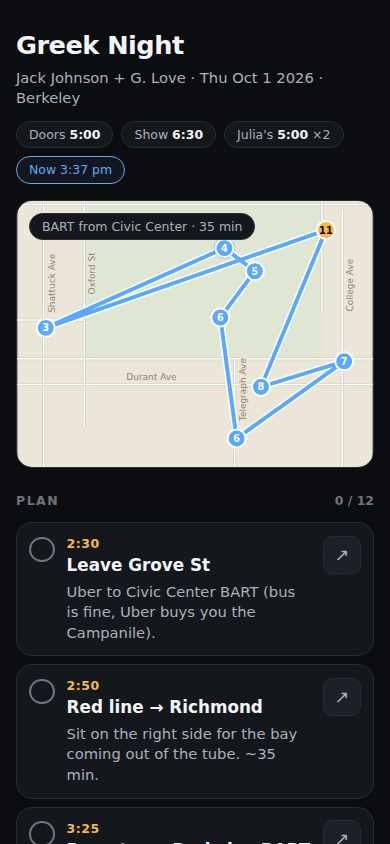
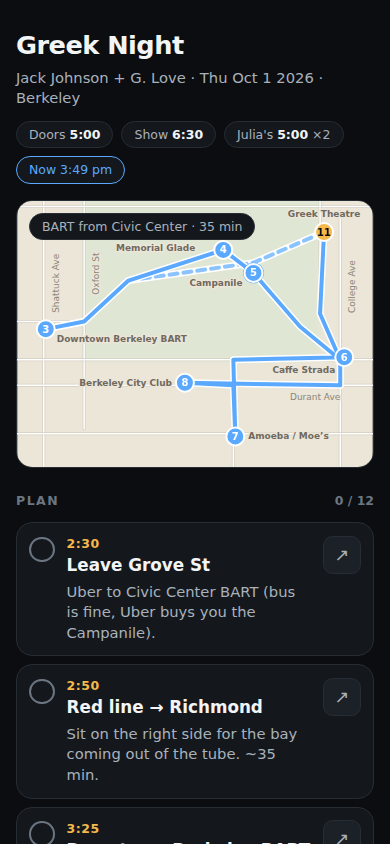
greek-night: street-following loop, plan reorder
Claude-Session: https://claude.ai/code/session_01SYEqCQ4izqiJdBAjLeUwFf

Changed region(s): [[0.0923, 0.2156, 0.9231, 0.5545], [0.1846, 0.1848, 0.2154, 0.2156]]

diff --git a/greek-night.html b/greek-night.html
@@ -59,6 +59,8 @@
   .gn-st-l{font-size:9px;fill:#8b8578;stroke:#ece6d8;stroke-width:3;paint-order:stroke;stroke-linejoin:round;font-weight:500}
   .gn-route-case{fill:none;stroke:#fff;stroke-width:7;stroke-linejoin:round;stroke-linecap:round}
   .gn-route{fill:none;stroke:var(--now);stroke-width:4;stroke-linejoin:round;stroke-linecap:round}
+  .gn-route.ret{stroke-dasharray:8 6;opacity:.7}
+  .pin-l{font-size:9px;fill:#6f6a5f;stroke:#ece6d8;stroke-width:3;paint-order:stroke;stroke-linejoin:round;font-weight:600}
   .pin{cursor:pointer;transition:opacity .2s}
   .pin.done{opacity:.45}
   .pin-c{fill:var(--now);stroke:#fff;stroke-width:2}
@@ -124,9 +126,9 @@
     {t:'3:25', h:15, m:25, title:'Downtown Berkeley BART', note:'Exit to Shattuck, east on Center St two blocks to campus.', map:M('Downtown Berkeley BART Station')},
     {t:'3:30', h:15, m:30, title:'Doe Library → Memorial Glade', note:'The big lawn with the Campanile view.', map:M('Memorial Glade UC Berkeley')},
     {t:'3:40', h:15, m:40, title:'Campanile', note:'Last elevator up 3:45, $5. Miss it → lawn at the base for 10 min.', map:M('Sather Tower UC Berkeley')},
-    {t:'4:00', h:16, m:0, title:'Sather Gate → Sproul → Telegraph', note:'Amoeba (Haste & Telegraph) and Moe’s Books next door. 20 min.', map:M('Amoeba Music 2455 Telegraph Ave Berkeley')},
-    {t:'4:25', h:16, m:25, title:'Caffe Strada', note:'College & Bancroft, the patio under the trees. Tea or espresso.', map:M('Caffe Strada 2300 College Ave Berkeley')},
-    {t:'4:55', h:16, m:55, title:'Berkeley City Club', note:'Julia Morgan, 1929. Courtyard and the indoor pool through the back. Julia’s is 2nd floor.', map:M('Berkeley City Club 2315 Durant Ave Berkeley')},
+    {t:'4:00', h:16, m:0, title:'Caffe Strada', note:'Exit campus at the SE corner (Bancroft & College). The patio under the trees. Tea or espresso.', map:M('Caffe Strada 2300 College Ave Berkeley')},
+    {t:'4:25', h:16, m:25, title:'Telegraph Ave', note:'West on Bancroft, south on Telegraph. Amoeba (Haste & Telegraph) and Moe’s next door. 20 min.', map:M('Amoeba Music 2455 Telegraph Ave Berkeley')},
+    {t:'4:50', h:16, m:50, title:'Berkeley City Club', note:'North to Durant, two blocks west. Julia Morgan, 1929 — courtyard and indoor pool through the back. Julia’s is 2nd floor.', map:M('Berkeley City Club 2315 Durant Ave Berkeley')},
     {t:'5:00', h:17, m:0, title:'Dinner — Julia’s', note:'Table for 2. Zero-proof cocktails. Niçoise w/ trout, ratatouille, beet salad. Ask for the check by 6:10.', map:M('Julia’s Restaurant 2315 Durant Ave Berkeley')},
     {t:'6:15', h:18, m:15, title:'Walk to the Greek', note:'Durant east → College Ave north → Gayley Rd. 15 min, uphill at the end.', map:M('Greek Theatre 2001 Gayley Rd Berkeley')},
     {t:'6:35', h:18, m:35, title:'In the gate', note:'G. Love on. Jack ~8:00. Done ~10:15. Water refill on the middle concourse.', map:M('Greek Theatre 2001 Gayley Rd Berkeley')},
@@ -142,7 +144,7 @@
     'Phone charged · Clipper in Wallet · tickets in Wallet'
   ];
 
-  var KEY = 'greek-night-v1';
+  var KEY = 'greek-night-v2';
   var state = {};
   try { state = JSON.parse(localStorage.getItem(KEY) || '{}') || {}; } catch (e) { state = {}; }
   function save(){ try { localStorage.setItem(KEY, JSON.stringify(state)); } catch (e) {} }
@@ -206,25 +208,32 @@
   }
 
   /* ---------- map hero: offline SVG, projected from the data ---------- */
-  var STOPS = [
-    {n:'Downtown Berkeley BART', lat:37.8699, lng:-122.2681, steps:[3, 12]},
-    {n:'Memorial Glade', lat:37.8730, lng:-122.2593, steps:[4]},
-    {n:'Campanile', lat:37.8721, lng:-122.2578, steps:[5]},
-    {n:'Sather Gate', lat:37.8703, lng:-122.2595, steps:[6]},
-    {n:'Amoeba / Moe’s', lat:37.8656, lng:-122.2587, steps:[6]},
-    {n:'Caffe Strada', lat:37.8686, lng:-122.2534, steps:[7]},
-    {n:'Berkeley City Club', lat:37.8676, lng:-122.2575, steps:[8]},
-    {n:'Greek Theatre', lat:37.8737, lng:-122.2543, steps:[11], greek:true}
+  var PLACES = [
+    {n:'Downtown Berkeley BART', lat:37.8699, lng:-122.2681, step:3},
+    {n:'Memorial Glade', lat:37.8730, lng:-122.2593, step:4},
+    {n:'Campanile', lat:37.8721, lng:-122.2578, step:5},
+    {n:'Caffe Strada', lat:37.8688, lng:-122.2533, step:6},
+    {n:'Amoeba / Moe’s', lat:37.8657, lng:-122.2587, step:7},
+    {n:'Berkeley City Club', lat:37.8678, lng:-122.2612, step:8},
+    {n:'Greek Theatre', lat:37.8737, lng:-122.2543, step:11, greek:true}
   ];
-  var ROUTE = [0, 1, 2, 3, 4, 5, 6, 7, 0];
-  /* [name, N–S?, fixed coord, from, to, labelled] */
+  /* walk out: BART → campus → Strada → Telegraph → City Club → Greek; the Bancroft & College retrace is the same sidewalk */
+  var OUT = [
+    [37.8699, -122.2681], [37.8702, -122.2662], [37.8718, -122.2640], [37.8730, -122.2593],
+    [37.8721, -122.2578], [37.8700, -122.2555], [37.8687, -122.2535], [37.8688, -122.2533],
+    [37.8687, -122.2588], [37.8657, -122.2587], [37.8677, -122.2588], [37.8678, -122.2612],
+    [37.8677, -122.2535], [37.8687, -122.2535], [37.8705, -122.2545], [37.8737, -122.2543]
+  ];
+  var BACK = [[37.8737, -122.2543], [37.8725, -122.2578], [37.8718, -122.2640], [37.8702, -122.2662], [37.8699, -122.2681]];
+  /* [name, N–S?, fixed coord, from, to (null = full fitted width), labelled] */
   var STREETS = [
     ['Shattuck Ave', true, -122.2682, 37.863, 37.878, true],
     ['Oxford St', true, -122.2662, 37.866, 37.876, true],
     ['Telegraph Ave', true, -122.2588, 37.860, 37.8687, true],
     ['College Ave', true, -122.2535, 37.860, 37.8745, true],
-    ['Durant Ave', false, 37.8677, -122.270, -122.250, true],
-    ['Bancroft Way', false, 37.8687, -122.270, -122.250, false],
+    ['Durant Ave', false, 37.8677, null, null, true],
+    ['Bancroft Way', false, 37.8687, null, null, false],
+    ['Haste St', false, 37.8658, -122.270, -122.250, false],
     ['Hearst Ave', false, 37.8747, -122.270, -122.250, false],
     ['Center St', false, 37.8702, -122.270, -122.2662, false],
     ['Gayley Rd', true, -122.2545, 37.8705, 37.876, false]
@@ -235,6 +244,7 @@
   var cardEl = document.getElementById('mapcard');
   var svg = document.getElementById('gnmap');
   var popEl = document.getElementById('pinpop');
+  var chipEl = cardEl.querySelector('.mapchip');
   var pinEls = [];
 
   function S(tag, attrs, parent){
@@ -249,11 +259,37 @@
   }
   function f(n){ return n.toFixed(1); }
 
+  /* label collision: a candidate box scores 0 only when it is inside the map and clear of pins, route, chip and other labels */
+  function segHitsRect(a, b, r){
+    var t0 = 0, t1 = 1, dx = b[0] - a[0], dy = b[1] - a[1];
+    var p = [-dx, dx, -dy, dy], q = [a[0] - r.x, r.x + r.w - a[0], a[1] - r.y, r.y + r.h - a[1]];
+    for (var i = 0; i < 4; i++) {
+      if (p[i] === 0) { if (q[i] < 0) return false; continue; }
+      var t = q[i] / p[i];
+      if (p[i] < 0) { if (t > t1) return false; if (t > t0) t0 = t; }
+      else { if (t < t0) return false; if (t < t1) t1 = t; }
+    }
+    return true;
+  }
+  function rectsHit(a, b){ return a.x < b.x + b.w && b.x < a.x + a.w && a.y < b.y + b.h && b.y < a.y + a.h; }
+  function scoreBox(r, ob, w, h){
+    var s = 0;
+    if (r.x < 3 || r.y < 3 || r.x + r.w > w - 3 || r.y + r.h > h - 3) s += 100;
+    ob.circles.forEach(function(c){
+      var nx = Math.max(r.x, Math.min(c[0], r.x + r.w)), ny = Math.max(r.y, Math.min(c[1], r.y + r.h));
+      if ((nx - c[0]) * (nx - c[0]) + (ny - c[1]) * (ny - c[1]) < c[2] * c[2]) s += 10;
+    });
+    var R = {x:r.x - 4.5, y:r.y - 4.5, w:r.w + 9, h:r.h + 9};   /* route casing half-width 3.5 + 1 */
+    ob.segs.forEach(function(sg){ if (segHitsRect(sg[0], sg[1], R)) s += 10; });
+    ob.rects.forEach(function(o){ if (rectsHit(r, o)) s += 10; });
+    return s;
+  }
+
   function buildMap(){
     var w = svg.clientWidth, h = svg.clientHeight;
     if (!w || !h) return;
     var minx = Infinity, maxx = -Infinity, miny = Infinity, maxy = -Infinity;
-    STOPS.forEach(function(s){
+    PLACES.forEach(function(s){
       var x = s.lng * K, y = -s.lat;
       minx = Math.min(minx, x); maxx = Math.max(maxx, x); miny = Math.min(miny, y); maxy = Math.max(maxy, y);
     });
@@ -269,58 +305,126 @@
     S('rect', {'class':'gn-land', x:0, y:0, width:w, height:h}, svg);
     S('polygon', {'class':'gn-campus', filter:'url(#gn-soft)', points:CAMPUS.map(function(c){ var p = P(c[0], c[1]); return f(p[0]) + ',' + f(p[1]); }).join(' ')}, svg);
 
-    var gs = S('g', {}, svg), gl = S('g', {}, svg);
-    STREETS.forEach(function(st){
-      var a = st[1] ? P(st[3], st[2]) : P(st[2], st[3]);
-      var b = st[1] ? P(st[4], st[2]) : P(st[2], st[4]);
+    var gs = S('g', {}, svg);
+    var lines = STREETS.map(function(st){
+      var a, b;
+      if (st[1]) { a = P(st[3], st[2]); b = P(st[4], st[2]); }
+      else if (st[3] === null) { var y = P(st[2], 0)[1]; a = [0, y]; b = [w, y]; }
+      else { a = P(st[2], st[3]); b = P(st[2], st[4]); }
       var ln = {x1:f(a[0]), y1:f(a[1]), x2:f(b[0]), y2:f(b[1])};
       ln['class'] = 'gn-st-case'; S('line', ln, gs);
       ln['class'] = 'gn-st'; S('line', ln, gs);
-      if (!st[5]) return;
-      var t;
-      if (st[1]) {
-        /* label beside the street, right of the line, on the northern part of what is visible */
-        var y0 = Math.min(h - 6, Math.max(a[1], b[1])), y1 = Math.max(6, Math.min(a[1], b[1]));
-        var ly = y0 - (y0 - y1) * 0.7;
-        t = S('text', {'class':'gn-st-l', x:f(a[0]), y:f(ly), dy:'11', 'text-anchor':'middle', transform:'rotate(-90 ' + f(a[0]) + ' ' + f(ly) + ')'}, gl);
-      } else {
-        var x0 = Math.max(6, Math.min(a[0], b[0])), x1 = Math.min(w - 6, Math.max(a[0], b[0]));
-        var lx = x0 + (x1 - x0) * 0.3;
-        t = S('text', {'class':'gn-st-l', x:f(lx), y:f(a[1]), dy:'-4', 'text-anchor':'start'}, gl);
-      }
-      t.textContent = st[0];
+      return [a, b];
     });
 
-    var d = ROUTE.map(function(i, k){ var p = P(STOPS[i].lat, STOPS[i].lng); return (k ? 'L' : 'M') + f(p[0]) + ' ' + f(p[1]); }).join('');
-    S('path', {'class':'gn-route-case', d:d}, svg);
-    S('path', {'class':'gn-route', d:d}, svg);
+    function routeD(pts){ return pts.map(function(c, k){ var p = P(c[0], c[1]); return (k ? 'L' : 'M') + f(p[0]) + ' ' + f(p[1]); }).join(''); }
+    var dOut = routeD(OUT), dBack = routeD(BACK);
+    S('path', {'class':'gn-route-case', d:dBack}, svg);
+    S('path', {'class':'gn-route ret', d:dBack}, svg);
+    S('path', {'class':'gn-route-case', d:dOut}, svg);
+    S('path', {'class':'gn-route', d:dOut}, svg);
 
-    pinEls = STOPS.map(function(s, i){
+    /* obstacles for label placement */
+    var ob = {circles:[], segs:[], rects:[]};
+    PLACES.forEach(function(s){ var p = P(s.lat, s.lng); ob.circles.push([p[0], p[1], 12]); });
+    [OUT, BACK].forEach(function(pts){
+      for (var i = 1; i < pts.length; i++) ob.segs.push([P(pts[i - 1][0], pts[i - 1][1]), P(pts[i][0], pts[i][1])]);
+    });
+    var cr = chipEl.getBoundingClientRect(), sr = svg.getBoundingClientRect();
+    ob.rects.push({x:cr.left - sr.left - 2, y:cr.top - sr.top - 2, w:cr.width + 4, h:cr.height + 4});
+
+    var gl = S('g', {}, svg);
+    function measure(cls, txt){
+      var t = S('text', {'class':cls, x:-999, y:-999}, gl); t.textContent = txt;
+      var len = t.getComputedTextLength(); gl.removeChild(t); return len;
+    }
+    function best(cands){
+      var pick = null, ps = Infinity;
+      cands.forEach(function(c){ var s = scoreBox(c.r, ob, w, h); if (s < ps) { ps = s; pick = c; } });
+      return {c:pick, s:ps};
+    }
+
+    /* pin names: right of the pin (left in the right third), then the other side, then above / below */
+    PLACES.forEach(function(s){
+      var p = P(s.lat, s.lng), len = measure('pin-l', s.n), H = 10;
+      var R = {r:{x:p[0] + 13, y:p[1] - 5, w:len, h:H}, anchor:'start', x:p[0] + 13};
+      var L = {r:{x:p[0] - 13 - len, y:p[1] - 5, w:len, h:H}, anchor:'end', x:p[0] - 13};
+      var cands = p[0] > w * 2 / 3 ? [L, R] : [R, L];
+      [p[1] - 15, p[1] + 5].forEach(function(y){
+        cands.push({r:{x:p[0] + 11, y:y, w:len, h:H}, anchor:'start', x:p[0] + 11});
+        cands.push({r:{x:p[0] - 11 - len, y:y, w:len, h:H}, anchor:'end', x:p[0] - 11});
+      });
+      [p[1] - 13 - H, p[1] + 13, p[1] - 22 - H, p[1] + 22].forEach(function(y){
+        cands.push({r:{x:p[0] - len / 2, y:y, w:len, h:H}, anchor:'middle', x:p[0]});
+        cands.push({r:{x:p[0] + 8, y:y, w:len, h:H}, anchor:'start', x:p[0] + 8});
+        cands.push({r:{x:p[0] - 8 - len, y:y, w:len, h:H}, anchor:'end', x:p[0] - 8});
+      });
+      var bb = best(cands), b = bb.c;
+      if (bb.s > 0) {
+        /* crowded corner: take the nearest clear spot close to the pin instead */
+        var near = null, nd = Infinity;
+        for (var dy = -36; dy <= 26; dy++) for (var dx = -len - 36; dx <= 36; dx++) {
+          var r = {x:p[0] + dx, y:p[1] + dy, w:len, h:H};
+          var qx = Math.max(r.x, Math.min(p[0], r.x + r.w)) - p[0], qy = Math.max(r.y, Math.min(p[1], r.y + r.h)) - p[1];
+          var d = Math.sqrt(qx * qx + qy * qy);
+          if (d < nd && scoreBox(r, ob, w, h) === 0) { nd = d; near = r; }
+        }
+        if (near) b = {r:near, anchor:'start', x:near.x};
+      }
+      var t = S('text', {'class':'pin-l', x:f(b.x), y:f(b.r.y + 8), 'text-anchor':b.anchor}, gl);
+      t.textContent = s.n;
+      ob.rects.push(b.r);
+    });
+
+    /* street names: beside the line on its visible part; a street with no clear spot goes unlabelled rather than under the route */
+    STREETS.forEach(function(st, i){
+      if (!st[5]) return;
+      var a = lines[i][0], b = lines[i][1], len = measure('gn-st-l', st[0]), cands = [];
+      [0.7, 0.5, 0.85, 0.3, 0.15, 0.6, 0.4, 0.95, 0.05].forEach(function(fr){
+        if (st[1]) {
+          var y0 = Math.min(h - 6, Math.max(a[1], b[1])), y1 = Math.max(6, Math.min(a[1], b[1]));
+          var ly = y0 - (y0 - y1) * fr, x = a[0];
+          cands.push({r:{x:x + 6, y:ly - len / 2, w:10, h:len}, x:x, y:ly, dy:'15', rot:true});
+          cands.push({r:{x:x - 16, y:ly - len / 2, w:10, h:len}, x:x, y:ly, dy:'-7', rot:true});
+        } else {
+          var x0 = Math.max(6, Math.min(a[0], b[0])), x1 = Math.min(w - 6, Math.max(a[0], b[0]));
+          var lx = x0 + (x1 - x0) * fr - len / 2, yy = a[1];
+          cands.push({r:{x:lx, y:yy - 16, w:len, h:10}, x:lx, y:yy, dy:'-8'});
+          cands.push({r:{x:lx, y:yy + 6, w:len, h:10}, x:lx, y:yy, dy:'15'});
+        }
+      });
+      var r = best(cands);
+      if (r.s > 0) return;
+      var c = r.c, at = {'class':'gn-st-l', x:f(c.x), y:f(c.y), dy:c.dy};
+      if (c.rot) { at['text-anchor'] = 'middle'; at.transform = 'rotate(-90 ' + f(c.x) + ' ' + f(c.y) + ')'; }
+      S('text', at, gl).textContent = st[0];
+      ob.rects.push(c.r);
+    });
+
+    pinEls = PLACES.map(function(s, i){
       var p = P(s.lat, s.lng);
       var g = S('g', {'class':'pin' + (s.greek ? ' greek' : ''), 'data-i':i, transform:'translate(' + f(p[0]) + ' ' + f(p[1]) + ')'}, svg);
       S('circle', {'class':'pin-hit', r:20}, g);
       S('circle', {'class':'pulse', r:9}, g);
       S('circle', {'class':'pin-c', r:9}, g);
       var n = S('text', {'class':'pin-n', 'text-anchor':'middle', dy:'3.5'}, g);
-      n.textContent = s.steps[0];
+      n.textContent = s.step;
       return g;
     });
   }
 
   function paintMap(ni){
     pinEls.forEach(function(g, i){
-      var steps = STOPS[i].steps;
-      g.classList.toggle('done', steps.every(function(k){ return !!state['p' + (k - 1)]; }));
-      g.classList.toggle('now', steps.some(function(k){ return k - 1 === ni && !state['p' + (k - 1)]; }));
+      var k = PLACES[i].step - 1;
+      g.classList.toggle('done', !!state['p' + k]);
+      g.classList.toggle('now', k === ni && !state['p' + k]);
     });
   }
 
   function popClose(){ popEl.hidden = true; popEl.innerHTML = ''; }
   function popOpen(i){
-    var s = STOPS[i];
-    var k = s.steps.filter(function(n){ return !state['p' + (n - 1)]; })[0] || s.steps[0];
-    var p = PLAN[k - 1];
-    popEl.innerHTML = popPill(p.map, esc(s.n), 'step ' + k + ' · ' + esc(p.t));
+    var s = PLACES[i], p = PLAN[s.step - 1];
+    popEl.innerHTML = popPill(p.map, esc(s.n), 'step ' + s.step + ' · ' + esc(p.t));
     popEl.hidden = false;
     var c = pinEls[i].querySelector('.pin-c').getBoundingClientRect(), r = cardEl.getBoundingClientRect();
     var cx = c.left + c.width / 2 - r.left, top = c.top - r.top, bot = c.bottom - r.top;
